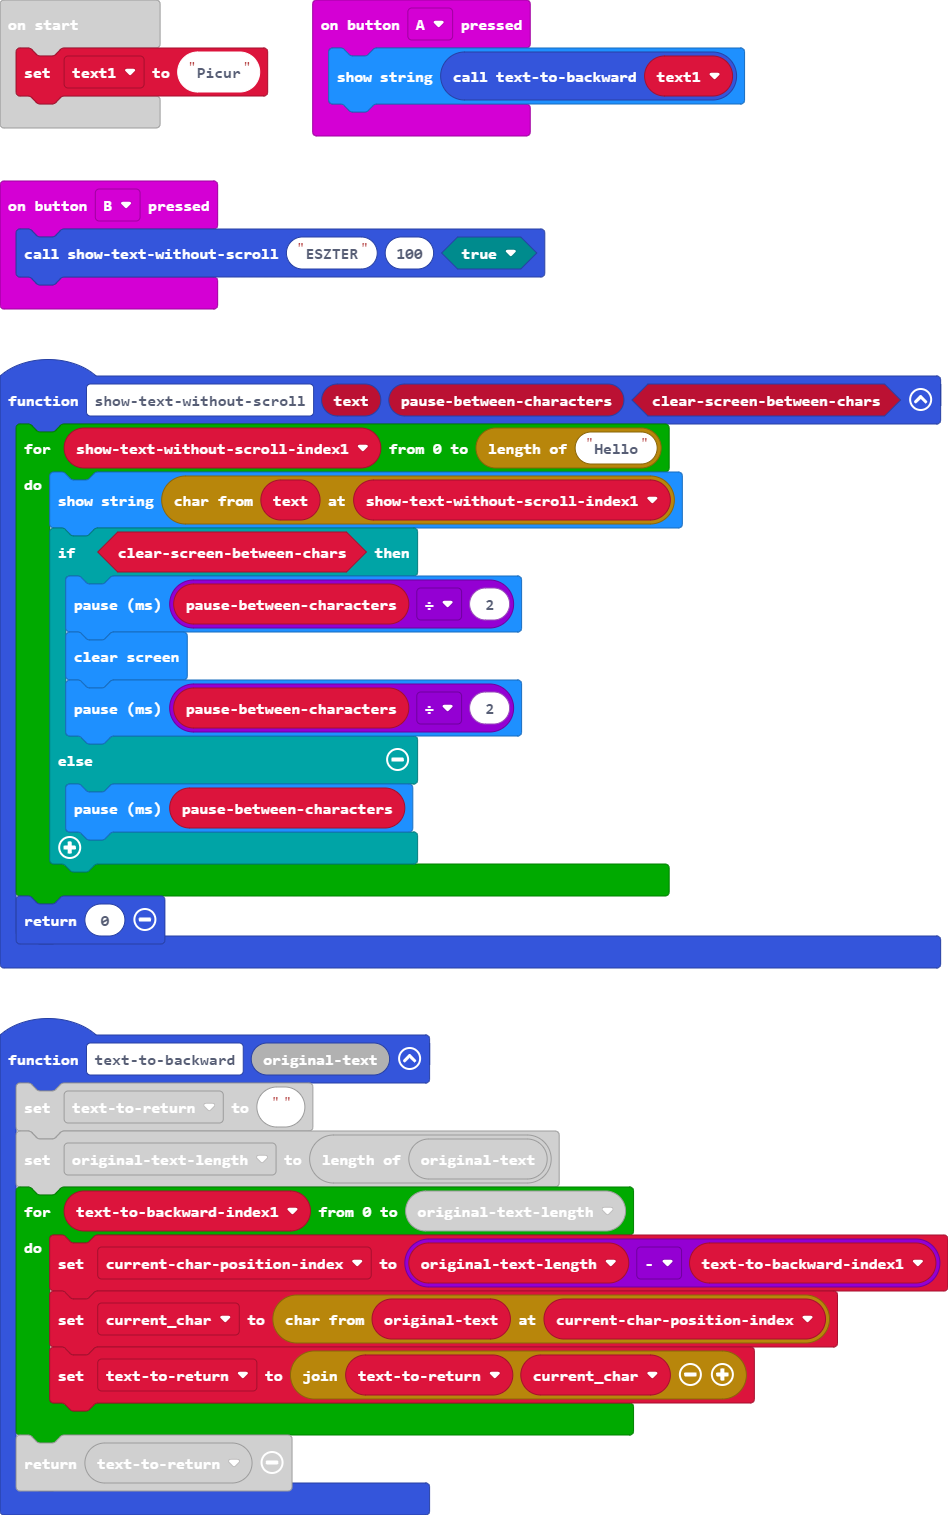
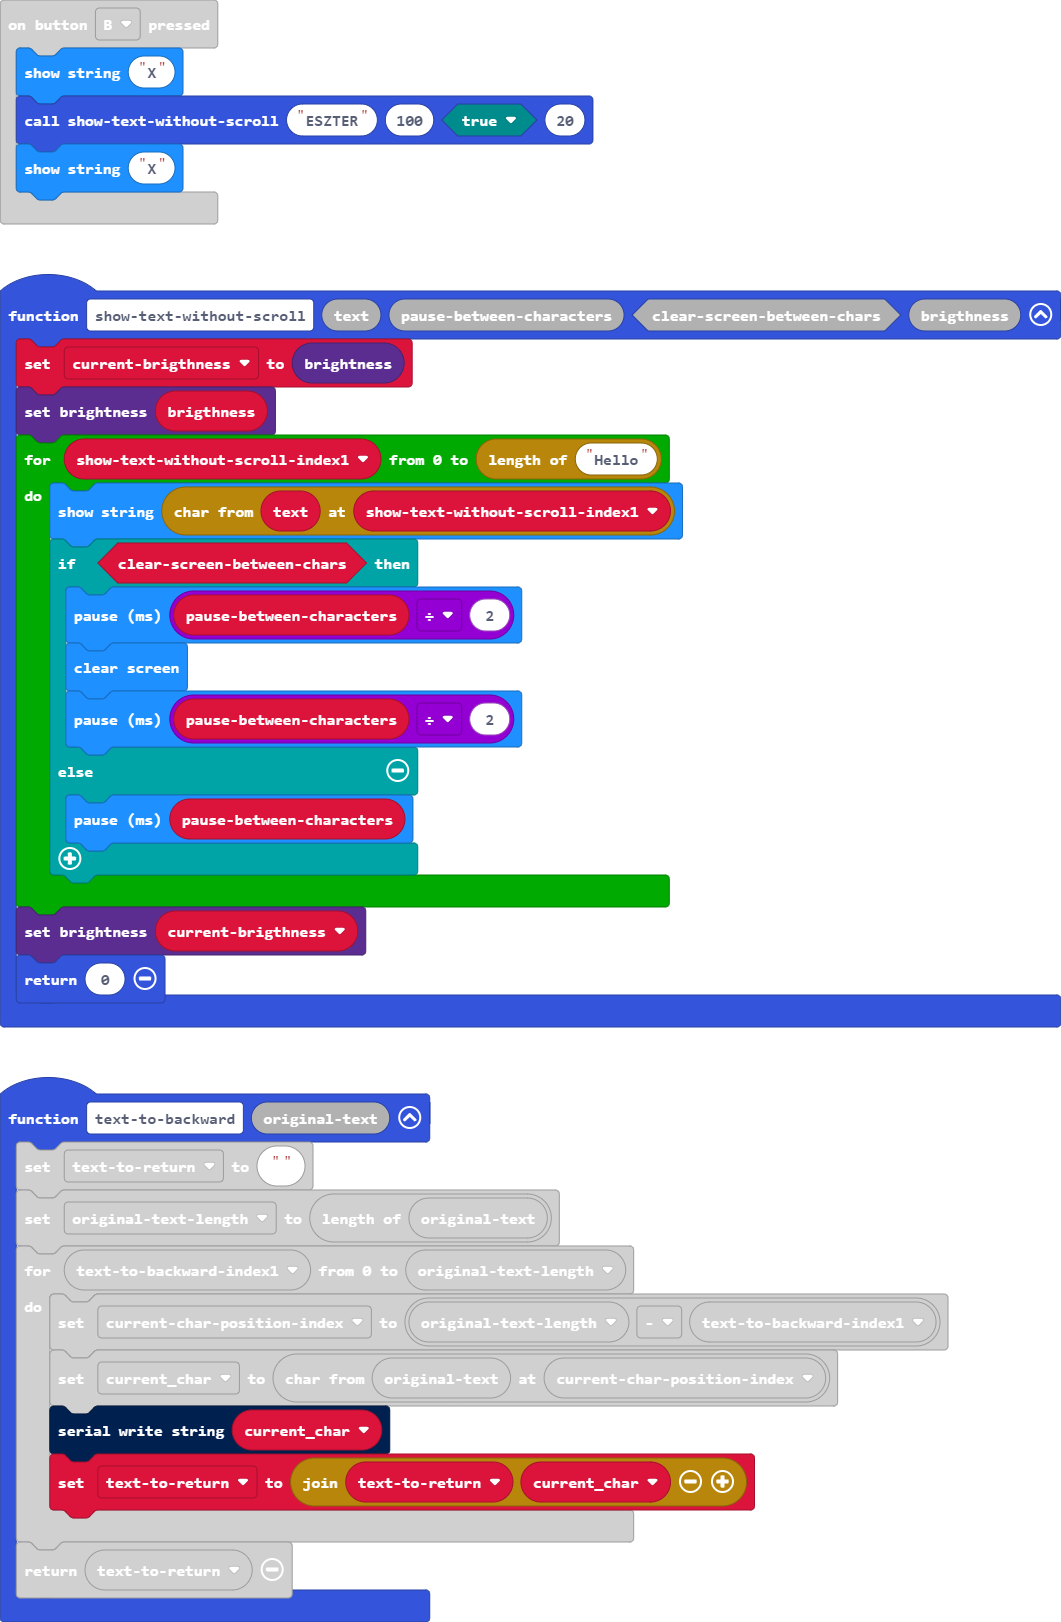
Update main.blocks, main.ts

diff --git a/main.ts b/main.ts
@@ -4,6 +4,7 @@ function texttobackward (originaltext: string) {
     for (let texttobackwardindex1 = 0; texttobackwardindex1 <= originaltextlength; texttobackwardindex1++) {
         currentcharpositionindex = originaltextlength - texttobackwardindex1
         current_char = originaltext.charAt(currentcharpositionindex)
+        serial.writeString(current_char)
         texttoreturn = "" + texttoreturn + current_char
     }
     return texttoreturn
@@ -11,7 +12,9 @@ function texttobackward (originaltext: string) {
 input.onButtonPressed(Button.A, function () {
     basic.showString("" + (texttobackward(text1)))
 })
-function showtextwithoutscroll (text: string, pausebetweencharacters: number, clearscreenbetweenchars: boolean) {
+function showtextwithoutscroll (text: string, pausebetweencharacters: number, clearscreenbetweenchars: boolean, brigthness: number) {
+    currentbrigthness = led.brightness()
+    led.setBrightness(brigthness)
     for (let showtextwithoutscrollindex1 = 0; showtextwithoutscrollindex1 <= "Hello".length; showtextwithoutscrollindex1++) {
         basic.showString(text.charAt(showtextwithoutscrollindex1))
         if (clearscreenbetweenchars) {
@@ -22,11 +25,15 @@ function showtextwithoutscroll (text: string, pausebetweencharacters: number, cl
             basic.pause(pausebetweencharacters)
         }
     }
+    led.setBrightness(currentbrigthness)
     return 0
 }
 input.onButtonPressed(Button.B, function () {
-    showtextwithoutscroll("ESZTER", 100, true)
+    basic.showString("X")
+    showtextwithoutscroll("ESZTER", 100, true, 20)
+    basic.showString("X")
 })
+let currentbrigthness = 0
 let current_char = ""
 let currentcharpositionindex = 0
 let originaltextlength = 0
